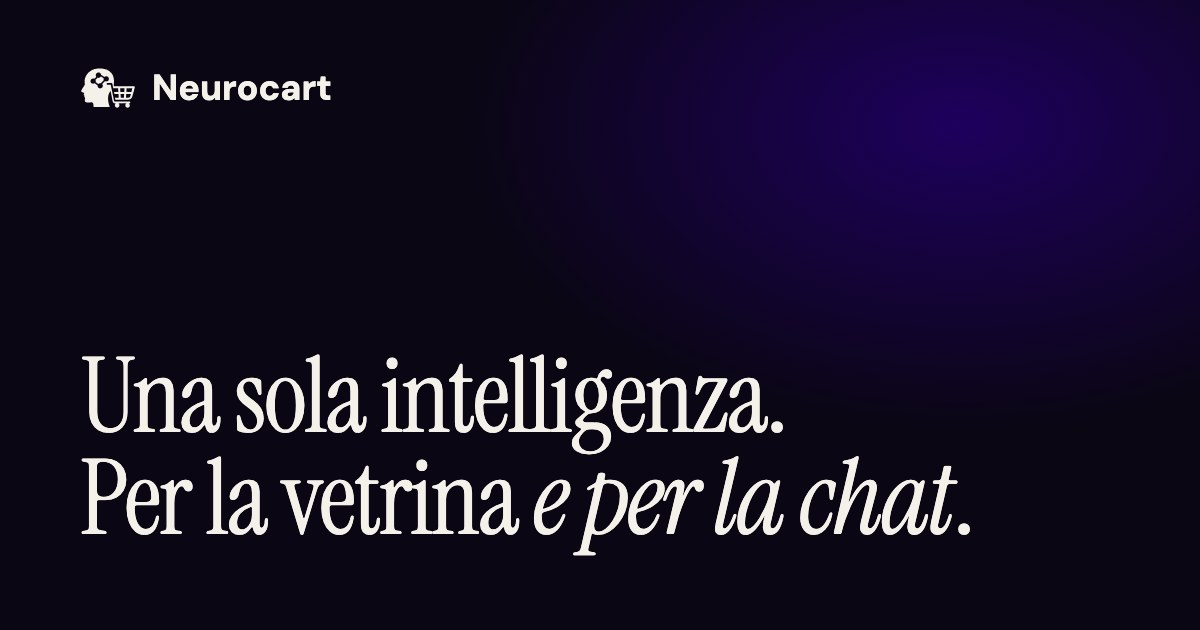
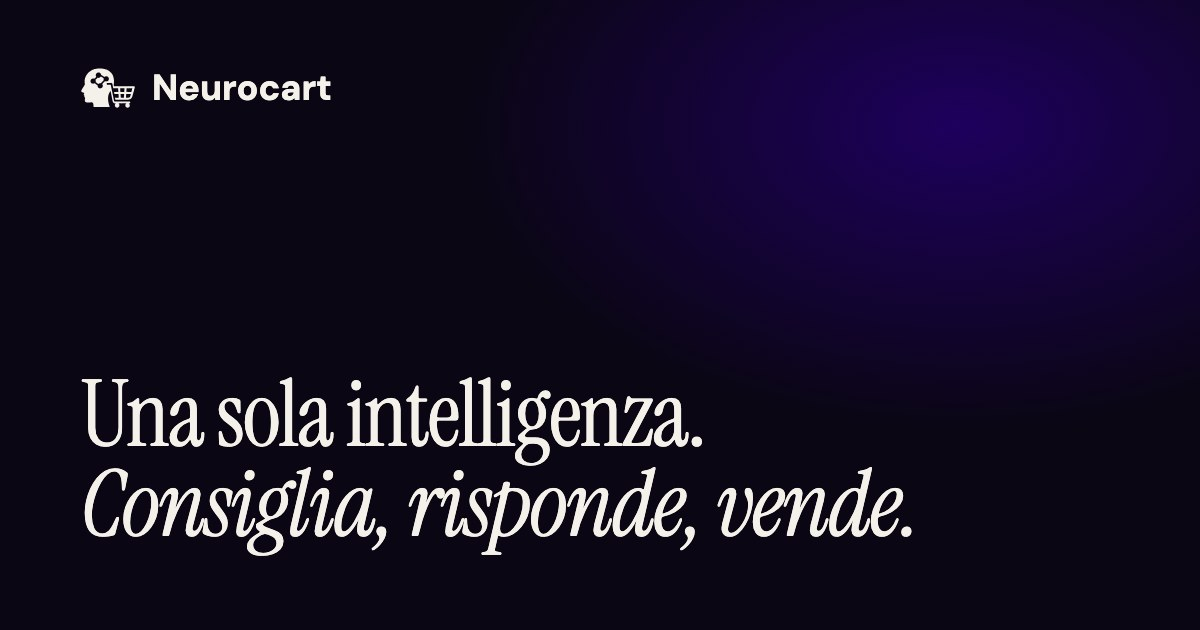
Landing: Rev. 3.2 (hero, numeri, motore con rail, sette tipi di consiglio, semplicità, prezzo chat rimosso)

Changed region(s): [[0.0617, 0.5429, 0.8017, 0.9048]]

diff --git a/index.html b/index.html
@@ -16,7 +16,7 @@
   <meta property="og:image" content="https://www.neurocart.it/og.jpg" />
   <meta property="og:image:width" content="1200" />
   <meta property="og:image:height" content="630" />
-  <meta property="og:image:alt" content="Neurocart — Una sola intelligenza. Per la vetrina e per la chat." />
+  <meta property="og:image:alt" content="Neurocart — Una sola intelligenza. Consiglia, risponde, vende." />
   <meta name="twitter:card" content="summary_large_image" />
   <meta name="twitter:title" content="Neurocart — Raccomandazioni e chat AI per store Shopify" />
   <meta name="twitter:description" content="Un solo motore per il carosello e per la chat: Neurocart impara dagli acquisti reali del tuo negozio Shopify e sa spiegare ogni consiglio." />
@@ -32,7 +32,7 @@
     {"@type":"Question","name":"Dove vanno i miei dati?","acceptedAnswer":{"@type":"Answer","text":"Ogni negozio ha il suo modello e il suo grafo, isolati dagli altri. Gestiamo i webhook di conformità GDPR di Shopify: la cancellazione di un cliente o del negozio si propaga a tutta la piattaforma. Siamo un'azienda italiana. Leggi l'informativa privacy."}},
     {"@type":"Question","name":"Posso gestire più negozi?","acceptedAnswer":{"@type":"Answer","text":"Sì. Un solo account, più negozi Shopify, con ruoli proprietario e collaboratore. Ogni negozio ha piano e crediti propri e il tuo team può seguire più negozi dalla stessa console."}},
     {"@type":"Question","name":"Cosa succede se il bot non sa rispondere?","acceptedAnswer":{"@type":"Answer","text":"Se un operatore del tuo team è online, il cliente può chiedere di parlargli; altrimenti lascia un messaggio e tu ricevi una mail. Se nessuno risponde entro il tempo che decidi, la chat torna al bot."}},
-    {"@type":"Question","name":"Quanto costa una conversazione?","acceptedAnswer":{"@type":"Answer","text":"Ogni piano ne include una quota: 30 nel Base, 100 nel Pro. Oltre, 0,50 € a conversazione, in pacchetti da 10 che non scadono. Si paga per conversazione, non per messaggio."}}
+    {"@type":"Question","name":"Quanto costa una conversazione?","acceptedAnswer":{"@type":"Answer","text":"Ogni piano include una quota di conversazioni: 30 nel Base, 100 nel Pro. Oltre, acquisti pacchetti da 10 dal pannello, che non scadono. Si conta per conversazione, non per messaggio."}}
   ]}</script>
   <script type="module" src="/src/main.ts"></script>
 </head>
@@ -55,10 +55,10 @@
       <div class="hero-graph" data-hero-bg aria-hidden="true"></div>
       <div class="wrap w-full" data-hero-fade>
         <p class="eyebrow">Per store Shopify</p>
-        <h1 class="h1" data-split>Una sola intelligenza.<br /> Per la vetrina <em>e per la chat</em>.</h1>
+        <h1 class="h1" data-split>Una sola intelligenza.<br /> <em>Consiglia, risponde, vende.</em></h1>
         <div class="mt-10 grid gap-10 lg:grid-cols-12">
           <div class="lg:col-span-6 lg:col-start-7">
-            <p class="prose-p text-lg text-cream/90 md:text-xl" data-reveal>Neurocart impara dagli acquisti reali del tuo negozio e consiglia gli stessi prodotti nel carosello e in conversazione. Niente a caso: ogni consiglio ha un perché misurabile.</p>
+            <p class="prose-p text-lg text-cream/90 md:text-xl" data-reveal>Neurocart impara dagli acquisti reali del tuo negozio Shopify: gli stessi consigli nel carosello e nella chat, ogni volta con un perché misurabile.</p>
             <div class="mt-8 flex flex-wrap gap-3" data-reveal>
               <a href="#accesso" class="btn btn-primary" data-cta>Richiedi accesso</a>
               <a href="#motore" class="btn btn-ghost">Guarda come funziona</a>
@@ -72,12 +72,11 @@
     <section class="sec">
       <div class="wrap">
         <h2 class="sr-only">I numeri</h2>
-        <div class="grid gap-12 md:grid-cols-3" data-reveal-stagger>
-          <figure><p class="stat"><span data-count="20">20</span> %</p><figcaption class="mt-3 max-w-[28ch]">delle vendite online delle feste 2025 influenzate dall'AI¹</figcaption></figure>
-          <figure><p class="stat">+<span data-count="50">50</span> %</p><figcaption class="mt-3 max-w-[28ch]">conversione dei visitatori che arrivano da una ricerca AI²</figcaption></figure>
-          <figure><p class="stat"><span data-count="87">87</span> %</p><figcaption class="mt-3 max-w-[28ch]">dei clienti vuole poter parlare con una persona³</figcaption></figure>
+        <div class="grid gap-6 md:grid-cols-3" data-reveal-stagger>
+          <article class="card stat-card"><i class="bar" data-grow></i><p class="stat"><span data-count="20">20</span> %</p><p class="mt-3 max-w-[28ch]">delle vendite online delle feste 2025 influenzate dall'AI</p><p class="muted mt-6 text-xs">Salesforce, Holiday Shopping Data 2025</p></article>
+          <article class="card stat-card"><i class="bar" data-grow></i><p class="stat">+<span data-count="50">50</span> %</p><p class="mt-3 max-w-[28ch]">conversione dei visitatori che arrivano da una ricerca AI</p><p class="muted mt-6 text-xs">Shopify, AI Search Insights, Q1 2026</p></article>
+          <article class="card stat-card"><i class="bar" data-grow></i><p class="stat"><span data-count="87">87</span> %</p><p class="mt-3 max-w-[28ch]">dei clienti vuole poter parlare con una persona</p><p class="muted mt-6 text-xs">Gartner, agosto 2026</p></article>
         </div>
-        <p class="muted mt-16 text-sm" data-reveal>¹ Salesforce, Holiday Shopping Data 2025 · ² Shopify, AI Search Insights, Q1 2026 · ³ Gartner, agosto 2026</p>
       </div>
     </section>
 
@@ -124,6 +123,14 @@
             <div class="lg:col-span-5">
               <p class="eyebrow">Il motore</p>
               <h2 class="h2" data-split>Consigli che sai spiegare.</h2>
+              <div class="rail4"><i class="track"><i class="fill"></i></i>
+                <ol>
+                  <li aria-current="step"><span>01</span>Legge il tuo catalogo</li>
+                  <li><span>02</span>Impara dagli acquisti reali</li>
+                  <li><span>03</span>Spiega ogni consiglio</li>
+                  <li><span>04</span>Si riallena ogni giorno</li>
+                </ol>
+              </div>
             </div>
             <div class="phases lg:col-span-6 lg:col-start-7">
               <article data-p="1" class="cur on"><p class="font-display text-sm font-semibold text-dusk">01</p><h3 class="mt-2 font-serif text-3xl md:text-4xl">Legge il tuo catalogo</h3><p class="prose-p mt-4 text-cream/85">Normalizza tipi e varianti, trasforma ogni prodotto in un punto in uno spazio di 1024 dimensioni e costruisce il grafo del tuo negozio.</p></article>
@@ -135,16 +142,32 @@
         </div>
       </div>
       <div class="wrap pb-24 md:pb-40">
-        <div class="why grid gap-6 md:grid-cols-3" data-reveal-stagger aria-hidden="true">
-          <div class="card"><div class="frame mb-4 border-0"><div class="pimg" style="--g:linear-gradient(135deg,#e9e1f2,#c9b6dd)"></div></div><p>Simile per materiale e taglio</p></div>
-          <div class="card"><div class="frame mb-4 border-0"><div class="pimg" style="--g:linear-gradient(135deg,#f1e6da,#d9c3aa)"></div></div><p>Acquistato insieme da clienti simili</p></div>
-          <div class="card"><div class="frame mb-4 border-0"><div class="pimg" style="--g:linear-gradient(135deg,#dce6ee,#b6c9d9)"></div></div><p>Consigliato per te</p></div>
+        <div class="why grid gap-8 md:grid-cols-3" data-reveal-stagger aria-hidden="true">
+          <div><article class="pcard"><div class="pimg" style="--g:linear-gradient(135deg,#e9e1f2,#c9b6dd)"></div><div class="pmeta"><p><b class="font-medium">Cappotto in lana</b><span>189 €</span></p><i class="pbrand">Atelier Nord</i></div></article><span class="chip mt-4">Simile per materiale e taglio</span></div>
+          <div><article class="pcard"><div class="pimg" style="--g:linear-gradient(135deg,#f1e6da,#d9c3aa)"></div><div class="pmeta"><p><b class="font-medium">Camicia in lino</b><span>79 €</span></p><i class="pbrand">Atelier Nord</i></div></article><span class="chip mt-4">Acquistato insieme da clienti simili</span></div>
+          <div><article class="pcard"><div class="pimg" style="--g:linear-gradient(135deg,#dce6ee,#b6c9d9)"></div><div class="pmeta"><p><b class="font-medium">Borsa in pelle</b><span>145 €</span></p><i class="pbrand">Atelier Nord</i></div></article><span class="chip mt-4">Consigliato per te</span></div>
         </div>
         <p class="mt-16 max-w-[24ch] font-serif text-3xl md:text-5xl" data-reveal>Niente estrazioni casuali. Niente modello generico condiviso tra negozi.</p>
       </div>
     </section>
 
-    <section id="chat" class="sec" data-preset="editorial">
+    <section id="consigli" class="sec">
+      <div class="wrap">
+        <p class="eyebrow">Cosa consiglia</p>
+        <h2 class="h2 max-w-[18ch]" data-split>Sette tipi di consiglio. Un solo motore.</h2>
+        <div class="mt-16 grid gap-6 md:grid-cols-2 xl:grid-cols-3" data-reveal-stagger>
+          <article class="card"><h3>Prodotti simili</h3><p class="muted mb-6 text-base">Stesso tipo, stesse caratteristiche, tag e descrizione affini.</p><span class="chip">Pagina prodotto</span></article>
+          <article class="card"><h3>Acquistati insieme</h3><p class="muted mb-6 text-base">Ciò che i clienti con gusti simili hanno comprato nello stesso ordine.</p><span class="chip">Pagina prodotto</span></article>
+          <article class="card"><h3>Prodotti complementari</h3><p class="muted mb-6 text-base">Un altro tipo di prodotto che completa quello che stai guardando.</p><span class="chip">Pagina prodotto</span></article>
+          <article class="card"><h3>Nuovi arrivi</h3><p class="muted mb-6 text-base">Gli ultimi prodotti entrati a catalogo.</p><span class="chip">Homepage</span></article>
+          <article class="card"><h3>Cross-sell dal carrello</h3><p class="muted mb-6 text-base">Suggerimenti calcolati su tutto ciò che c'è nel carrello.</p><span class="chip">Carrello</span></article>
+          <article class="card"><h3>Consigli post-acquisto</h3><p class="muted mb-6 text-base">Cosa proporre dopo l'ordine, in base a ciò che è stato comprato.</p><span class="chip">Post-acquisto</span></article>
+          <article class="card"><h3>Consigliati per te</h3><p class="muted mb-6 text-base">Una selezione personale per il cliente riconosciuto, dalla sua storia d'acquisto.</p><span class="chip">Per il cliente riconosciuto</span></article>
+        </div>
+      </div>
+    </section>
+
+    <section id="chat" class="sec pt-0" data-preset="editorial">
       <div class="wrap">
         <div class="grid gap-10 lg:grid-cols-12 lg:gap-0">
           <div class="lg:col-span-5">
@@ -159,23 +182,22 @@
               <li>Risponde nella lingua del cliente.</li>
               <li>Propone solo prodotti disponibili.</li>
             </ul>
-            <p class="muted mt-6 text-base">0,50 € a conversazione oltre la quota inclusa nel piano.</p>
           </div>
         </div>
 
         <div class="mt-20 grid gap-8 lg:grid-cols-12" aria-hidden="true">
           <div class="frame lg:col-span-7 lg:self-start" data-reveal>
             <div class="rail">
-              <article class="pcard"><div class="pimg" style="--g:linear-gradient(135deg,#e9e1f2,#c9b6dd)"></div><div class="pmeta"><p><b class="font-medium">Cappotto in lana</b><span>189 €</span></p></div></article>
-              <article class="pcard"><div class="pimg" style="--g:linear-gradient(135deg,#f1e6da,#d9c3aa)"></div><div class="pmeta"><p><b class="font-medium">Camicia in lino</b><span>79 €</span></p></div></article>
-              <article class="pcard"><div class="pimg" style="--g:linear-gradient(135deg,#dce6ee,#b6c9d9)"></div><div class="pmeta"><p><b class="font-medium">Borsa in pelle</b><span>145 €</span></p></div></article>
-              <article class="pcard"><div class="pimg" style="--g:linear-gradient(135deg,#e4ebdd,#bfcdb3)"></div><div class="pmeta"><p><b class="font-medium">Sneaker bianca</b><span>110 €</span></p></div></article>
+              <article class="pcard"><div class="pimg" style="--g:linear-gradient(135deg,#e9e1f2,#c9b6dd)"></div><div class="pmeta"><p><b class="font-medium">Cappotto in lana</b><span>189 €</span></p><i class="pbrand">Atelier Nord</i></div></article>
+              <article class="pcard"><div class="pimg" style="--g:linear-gradient(135deg,#f1e6da,#d9c3aa)"></div><div class="pmeta"><p><b class="font-medium">Camicia in lino</b><span>79 €</span></p><i class="pbrand">Atelier Nord</i></div></article>
+              <article class="pcard"><div class="pimg" style="--g:linear-gradient(135deg,#dce6ee,#b6c9d9)"></div><div class="pmeta"><p><b class="font-medium">Borsa in pelle</b><span>145 €</span></p><i class="pbrand">Atelier Nord</i></div></article>
+              <article class="pcard"><div class="pimg" style="--g:linear-gradient(135deg,#e4ebdd,#bfcdb3)"></div><div class="pmeta"><p><b class="font-medium">Sneaker bianca</b><span>110 €</span></p><i class="pbrand">Atelier Nord</i></div></article>
             </div>
           </div>
           <div class="frame flex flex-col gap-3 p-5 lg:col-span-5" data-reveal>
             <p class="bubble bubble-user">Cerco un cappotto caldo, sotto i 200 €.</p>
             <p class="bubble bubble-bot">Ti consiglio questo: lana, taglio dritto, disponibile.</p>
-            <div class="rail p-0"><article class="pcard"><div class="pimg" style="--g:linear-gradient(135deg,#e9e1f2,#c9b6dd)"></div><div class="pmeta"><p><b class="font-medium">Cappotto in lana</b><span>189 €</span></p></div></article></div>
+            <div class="rail p-0"><article class="pcard"><div class="pimg" style="--g:linear-gradient(135deg,#e9e1f2,#c9b6dd)"></div><div class="pmeta"><p><b class="font-medium">Cappotto in lana</b><span>189 €</span></p><i class="pbrand">Atelier Nord</i></div></article></div>
             <p class="bubble bubble-user">E con cosa lo abbino?</p>
           </div>
         </div>
@@ -193,6 +215,25 @@
               <li data-for="frame"><b class="font-display">Frame</b> — bordo 4 px nel colore del brand, foto «contain», animazione «tilt».</li>
             </ul>
             <p class="mt-8 font-serif text-2xl" data-reveal>Oppure la card del tuo tema, riconosciuta in automatico.</p>
+          </div>
+        </div>
+      </div>
+    </section>
+
+    <section class="sec pt-0" aria-labelledby="attivazione">
+      <div class="wrap">
+        <div class="grid gap-10 lg:grid-cols-12 lg:gap-0">
+          <div class="lg:col-span-5">
+            <p class="eyebrow">Come si attiva</p>
+            <h2 id="attivazione" class="h2" data-split>Semplice come installare un'app.</h2>
+          </div>
+          <div class="lg:col-span-6 lg:col-start-7">
+            <ol class="space-y-8" data-reveal-stagger>
+              <li class="flex gap-6"><span class="font-serif text-5xl text-primary">1</span><p>Installi l'app dallo Shopify App Store e colleghi il negozio al pannello.</p></li>
+              <li class="flex gap-6"><span class="font-serif text-5xl text-primary">2</span><p>Aggiungi i blocchi al tema dall'editor di Shopify, senza toccare il codice.</p></li>
+              <li class="flex gap-6"><span class="font-serif text-5xl text-primary">3</span><p>Ti godi tutto: caroselli, chat e dashboard lavorano da soli.</p></li>
+            </ol>
+            <p class="muted mt-8 text-base" data-reveal>Nessuna modifica al codice del tema.</p>
           </div>
         </div>
       </div>
@@ -232,24 +273,6 @@
       </div>
     </section>
 
-    <section class="sec pt-0" aria-labelledby="attivazione">
-      <div class="wrap">
-        <div class="grid gap-10 lg:grid-cols-12 lg:gap-0">
-          <div class="lg:col-span-5">
-            <p class="eyebrow">Come si attiva</p>
-            <h2 id="attivazione" class="h2" data-split>Tre passi. Nessuno sviluppo.</h2>
-          </div>
-          <div class="lg:col-span-6 lg:col-start-7">
-            <ol class="space-y-8" data-reveal-stagger>
-              <li class="flex gap-6"><span class="font-serif text-5xl text-primary">1</span><p>Installa l'app sul tuo store Shopify.</p></li>
-              <li class="flex gap-6"><span class="font-serif text-5xl text-primary">2</span><p>Collega il negozio al pannello con un codice.</p></li>
-              <li class="flex gap-6"><span class="font-serif text-5xl text-primary">3</span><p>Scegli lo stile delle card e la voce del chatbot.</p></li>
-            </ol>
-            <p class="muted mt-8 text-base" data-reveal>Nessuna modifica al codice del tema.</p>
-          </div>
-        </div>
-      </div>
-    </section>
 
     <section id="prezzi" class="sec pt-0">
       <div class="wrap">
@@ -260,7 +283,7 @@
           <article class="card border-2 border-accent"><h3 class="flex items-center justify-between">Pro <span class="badge">Consigliato</span></h3><p class="font-serif text-5xl">99 € <span class="font-sans text-base text-muted">/ mese</span></p><p class="muted mt-4 text-base">Raccomandazioni + chat · 100 conversazioni al mese · 1.000 crediti per immagini e contenuti</p></article>
           <article class="card"><h3>Enterprise</h3><p class="font-serif text-5xl">Su misura</p><p class="muted mt-4 text-base">Volumi, SLA e integrazioni dedicate</p></article>
         </div>
-        <p class="muted mt-10 max-w-[68ch] text-base" data-reveal>14 giorni gratuiti, disdici quando vuoi. Conversazioni extra 0,50 € l'una, in pacchetti da 10 che non scadono. Dall'App Store di Shopify i prezzi sono in dollari.</p>
+        <p class="muted mt-10 max-w-[68ch] text-base" data-reveal>14 giorni gratuiti, disdici quando vuoi. Conversazioni extra in pacchetti da 10 che non scadono. Dall'App Store di Shopify i prezzi sono in dollari.</p>
       </div>
     </section>
 
@@ -288,7 +311,7 @@
           <details><summary>Dove vanno i miei dati?</summary><p class="prose-p pb-6">Ogni negozio ha il suo modello e il suo grafo, isolati dagli altri. Gestiamo i webhook di conformità GDPR di Shopify: la cancellazione di un cliente o del negozio si propaga a tutta la piattaforma. Siamo un'azienda italiana. <a class="text-primary underline" href="%VITE_APP_URL%/privacy">Leggi l'informativa privacy.</a></p></details>
           <details><summary>Posso gestire più negozi?</summary><p class="prose-p pb-6">Sì. Un solo account, più negozi Shopify, con ruoli proprietario e collaboratore. Ogni negozio ha piano e crediti propri e il tuo team può seguire più negozi dalla stessa console.</p></details>
           <details><summary>Cosa succede se il bot non sa rispondere?</summary><p class="prose-p pb-6">Se un operatore del tuo team è online, il cliente può chiedere di parlargli; altrimenti lascia un messaggio e tu ricevi una mail. Se nessuno risponde entro il tempo che decidi, la chat torna al bot.</p></details>
-          <details><summary>Quanto costa una conversazione?</summary><p class="prose-p pb-6">Ogni piano ne include una quota: 30 nel Base, 100 nel Pro. Oltre, 0,50 € a conversazione, in pacchetti da 10 che non scadono. Si paga per conversazione, non per messaggio.</p></details>
+          <details><summary>Quanto costa una conversazione?</summary><p class="prose-p pb-6">Ogni piano include una quota di conversazioni: 30 nel Base, 100 nel Pro. Oltre, acquisti pacchetti da 10 dal pannello, che non scadono. Si conta per conversazione, non per messaggio.</p></details>
         </div>
       </div>
     </section>

diff --git a/src/styles.css b/src/styles.css
@@ -85,7 +85,21 @@
   @media (min-width: 768px) { .hero-graph { inset: 0 0 auto 40%; height: 40%; } }
   @keyframes breathe { to { transform: scale(1.04); opacity: 0.35; } }
 
-  .stat { font: 400 clamp(3.5rem, 7vw, 6rem) / 1 var(--font-serif); letter-spacing: -0.02em; color: var(--color-primary); }
+  .stat-card { box-shadow: var(--shadow-card-hover); }
+  .bar { display: block; width: 48px; height: 2px; margin-bottom: 1.5rem; background: linear-gradient(90deg, var(--color-primary), var(--color-secondary)); }
+  .stat { font: 600 clamp(3.5rem, 6vw, 6rem) / 1 var(--font-display); letter-spacing: -0.02em; color: var(--color-primary); }
+  .chip { display: inline-block; font: 600 0.75rem/1 var(--font-display); padding: 0.45rem 0.75rem; border-radius: 9999px; background: color-mix(in srgb, var(--color-primary) 8%, transparent); color: var(--color-primary); }
+  .night .chip { background: rgba(255, 255, 255, 0.08); color: var(--color-cream); }
+  .pbrand { display: block; margin-top: 0.2rem; font: 500 0.68rem/1.2 var(--font-sans); font-style: normal; letter-spacing: 0.08em; text-transform: uppercase; color: var(--color-muted); }
+  [data-preset="minimal"] .pbrand { display: none; }
+  .why .pcard { flex: none; max-width: 17rem; border-radius: var(--radius-lg); }
+  .rail4 { position: relative; display: flex; gap: 1.25rem; margin-top: 2.5rem; }
+  .rail4 .track { width: 2px; flex: none; background: rgba(255, 255, 255, 0.12); }
+  .rail4 .fill { display: block; height: 100%; background: var(--color-cream); transform-origin: top; }
+  .rail4 ol { display: grid; gap: 0.75rem; }
+  .rail4 li { font: 600 0.95rem var(--font-display); color: var(--color-dusk); transition: color 0.4s; }
+  .rail4 li span { margin-right: 0.75rem; opacity: 0.6; }
+  .rail4 li[aria-current] { color: var(--color-cream); }
 
   .frame { border: 1px solid var(--color-line); border-radius: var(--radius-xl); background: #fff; overflow: hidden; }
   .night .frame { border-color: rgba(255, 255, 255, 0.1); box-shadow: 0 30px 80px -20px rgba(0, 0, 0, 0.5); }
@@ -134,7 +148,6 @@
   .graph circle { filter: url(#glow); }
   .engine-graph { position: absolute; inset: 0; z-index: -1; }
   .engine-graph .graph { width: 100%; height: 100%; }
-  .why p { font: 500 0.8rem var(--font-sans); color: var(--color-dusk); }
 }
 
 @media (prefers-reduced-motion: no-preference) {
@@ -143,17 +156,18 @@
   html.js [data-split] { visibility: hidden; }
   .w { display: inline-block; overflow: hidden; vertical-align: top; padding: 0 0.12em 0.12em 0; margin: 0 -0.12em -0.12em 0; }
   .wi { display: inline-block; transform: translateY(100%); }
-  html.js .pin { height: 400vh; }
+  html.js .pin { height: 320vh; }
   html.js .stick { position: sticky; top: 0; height: 100vh; display: flex; flex-direction: column; justify-content: center; }
   html.js .phases { display: grid; }
-  html.js .phases > * { grid-area: 1 / 1; opacity: 0; transition: opacity 0.6s; pointer-events: none; }
-  html.js .phases > .cur { opacity: 1; pointer-events: auto; }
-  html.js .graph [data-p] { opacity: 0.25; transition: opacity 0.8s, stroke-dashoffset 1.2s; }
+  html.js .phases > * { grid-area: 1 / 1; opacity: 0; translate: 0 24px; transition: opacity 0.6s, translate 0.6s; pointer-events: none; }
+  html.js .phases > .cur { opacity: 1; translate: 0 0; pointer-events: auto; }
+  html.js .graph [data-p] { opacity: 0.25; transition: opacity 0.6s, stroke-dashoffset 0.6s; }
   html.js .graph .e { stroke-dashoffset: 1; }
   html.js .graph .on { opacity: 1; stroke-dashoffset: 0; }
   html.js [data-for] { transition: color 0.4s; color: var(--color-muted); }
   html.js [data-preset="editorial"] [data-for="editorial"], html.js [data-preset="glass"] [data-for="glass"], html.js [data-preset="minimal"] [data-for="minimal"], html.js [data-preset="frame"] [data-for="frame"] { color: var(--color-ink); }
-  [data-phase="4"] .n-prod { animation: glow-pulse 3s ease-in-out infinite alternate; }
+  html.js .graph circle.on { animation: glow-pulse 0.9s ease-out; transform-box: fill-box; transform-origin: center; }
+  html.js [data-grow] { transform: scaleX(0); transform-origin: left; }
 }
 
 @media (prefers-reduced-motion: reduce) {
@@ -163,4 +177,4 @@
 /* identiche: due nomi diversi servono a far ripartire l'animazione a ogni cambio di preset */
 @keyframes swap-a { from { opacity: 0.2; } }
 @keyframes swap-b { from { opacity: 0.2; } }
-@keyframes glow-pulse { to { opacity: 0.45; } }
+@keyframes glow-pulse { 40% { transform: scale(2.2); } }

diff --git a/src/main.ts b/src/main.ts
@@ -58,6 +58,7 @@ if (!matchMedia("(prefers-reduced-motion: reduce)").matches) {
   inView("[data-reveal]", (el) => void show([el]), { amount: 0.3 });
   inView("[data-reveal-stagger]", (el) => void show([...el.children]), { margin: "0px 0px -30% 0px" });
 
+  inView("[data-grow]", (bar) => void animate(bar, { transform: "scaleX(1)" }, { duration: 0.9, ease: EASE }));
   $$("[data-count]").forEach((counter) =>
     inView(counter, () => {
       animate(0, Number(counter.dataset.count), { duration: 1.8, ease: "easeOut", onUpdate: (value) => (counter.textContent = String(Math.round(value))) });
@@ -76,12 +77,14 @@ if (!matchMedia("(prefers-reduced-motion: reduce)").matches) {
     { target: hero, offset: ["start start", "end start"] },
   );
 
-  const engine = $("#engine");
+  const [engine, fill] = [$("#engine"), $("#engine .fill")];
   const phased = $$("[data-p]");
+  const railItems = $$("#engine ol li");
   scroll(
     (progress) => {
       const phase = Math.min(4, 1 + Math.floor(progress * 4));
-      engine.dataset.phase = String(phase);
+      fill.style.transform = `scaleY(${progress})`;
+      railItems.forEach((item, i) => (item.ariaCurrent = i + 1 === phase ? "step" : null));
       phased.forEach((el) => {
         el.classList.toggle("on", Number(el.dataset.p) <= phase);
         el.classList.toggle("cur", Number(el.dataset.p) === phase);
